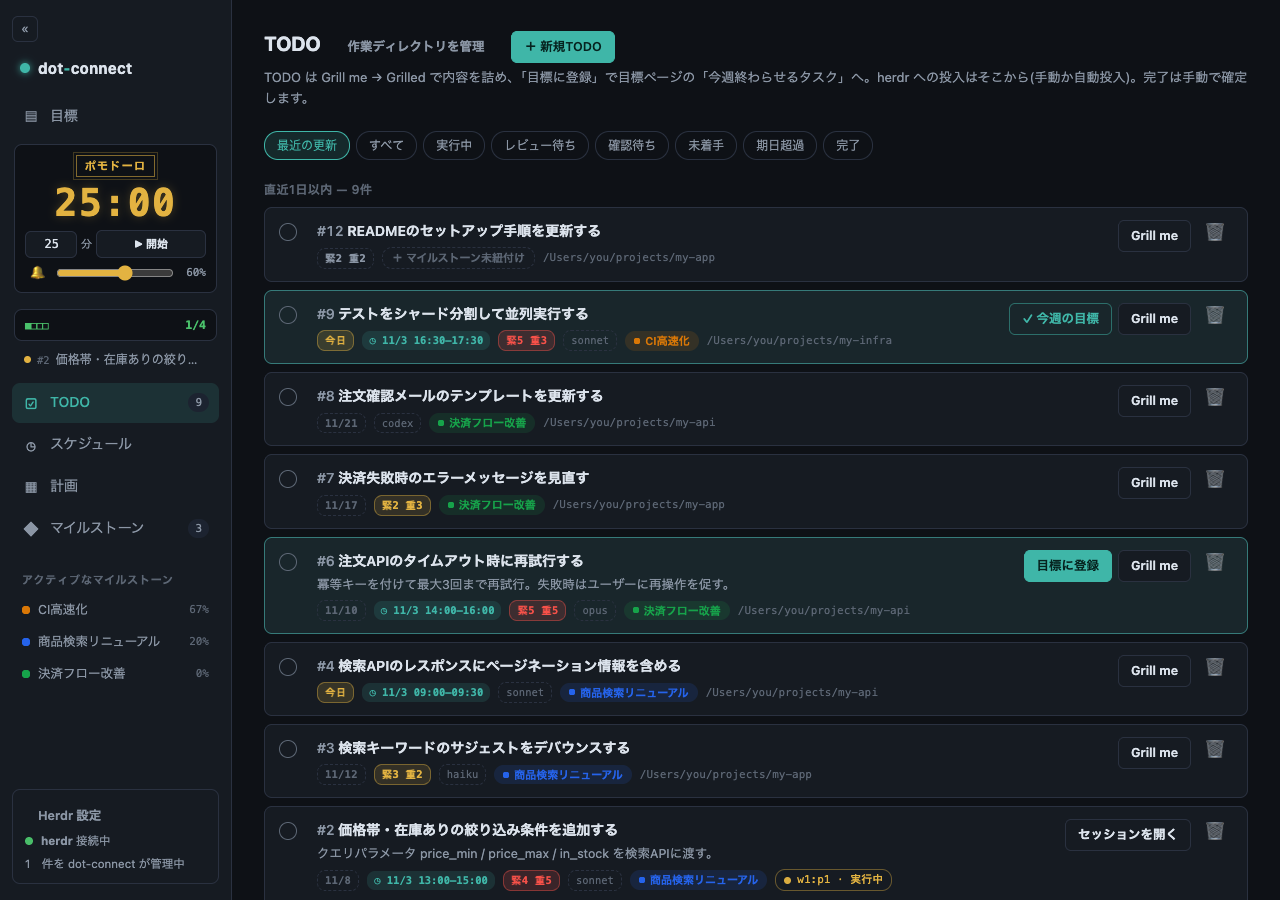
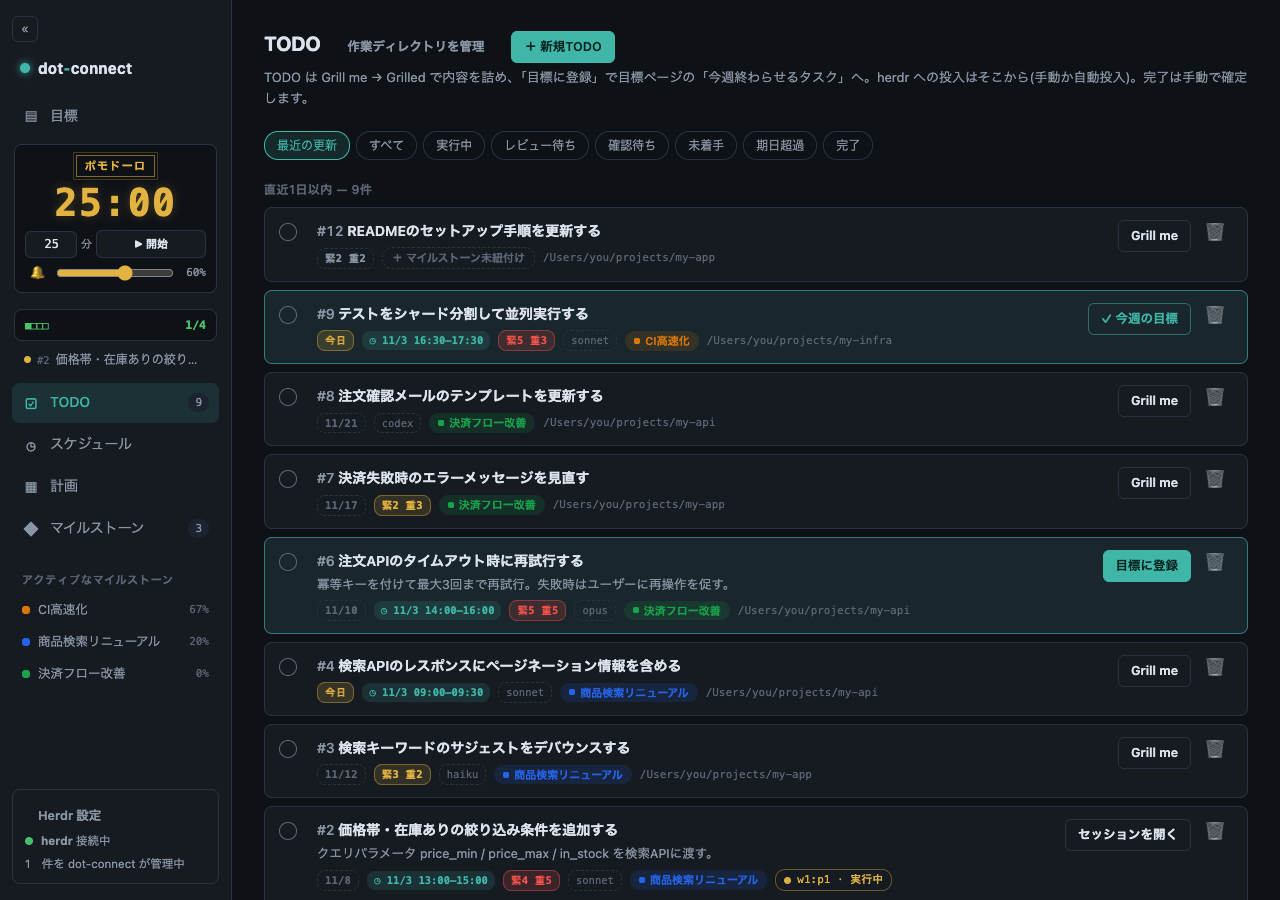
fix: show either Grill me or 目標に登録/今週の目標 on a TODO row, never both

Changed region(s): [[0.7812, 0.5911, 0.9375, 0.6533], [0.8125, 0.3422, 0.9375, 0.3733]]

diff --git a/public/js/lib/grill.js b/public/js/lib/grill.js
@@ -1,8 +1,9 @@
 // Grill: a herdr session where Claude Code interviews the user to firm up a
 // TODO. Which button a row shows is decided here so it stays testable.
 
-// Returns null when the row should offer neither (done, or an ordinary
-// task session is already running).
+// Returns null when the row should offer neither (done, an ordinary task
+// session is already running, or the todo is already Grilled — then the
+// row offers 「目標に登録」 instead; see weekGoalButton).
 export function grillButton(todo) {
   if (todo.status === 'done') return null
   // grillDir wins over sessionState: the session may have died, but the
@@ -15,6 +16,7 @@ export function grillButton(todo) {
     }
   }
   if (todo.sessionState) return null
+  if (isGrilled(todo)) return null
   return {
     action: 'grill',
     label: 'Grill me',

diff --git a/public/js/todos.js b/public/js/todos.js
@@ -150,7 +150,8 @@ function todoActions(todo) {
   }
   // herdr への投入はここからはしない: TODO は Grill me → Grilled で内容を
   // 詰め、「目標に登録」で今週終わらせるタスク(目標ページ)に入れ、そこから
-  // 投入する(手動の「投入」か自動投入)。
+  // 投入する(手動の「投入」か自動投入)。Grilled 前は「Grill me」だけ、
+  // Grilled 後は「目標に登録」(登録済みなら「今週の目標」)だけが出る。
   const goal = weekGoalButton(todo, (getState().weekQueue?.todos ?? []).map((t) => t.id))
   const goalBtn = !goal
     ? ''

diff --git a/tests/frontend/grill.test.js b/tests/frontend/grill.test.js
@@ -22,6 +22,9 @@ describe('grillButton', () => {
     expect(b.action).toBe('grill')
     expect(b.label).toBe('Grill me')
   })
+  test('a Grilled todo gets no Grill button (the row offers 目標に登録 instead)', () => {
+    expect(grillButton({ status: 'open', grillDir: null, sessionState: null, grilledAt: '2026-11-01 00:00:00' })).toBeNull()
+  })
   test('missing grillDir (older payload) behaves like null', () => {
     expect(grillButton({ status: 'open', sessionState: null }).action).toBe('grill')
   })
